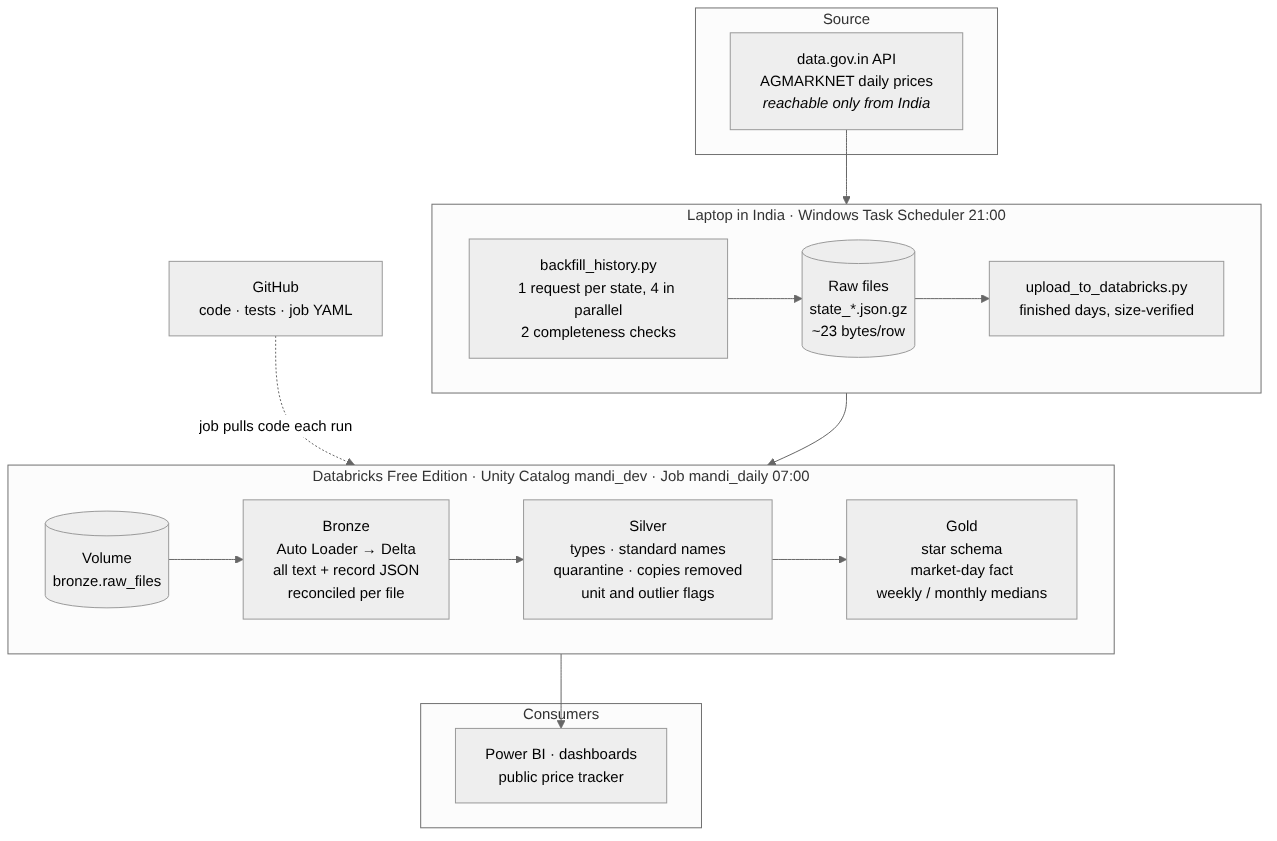
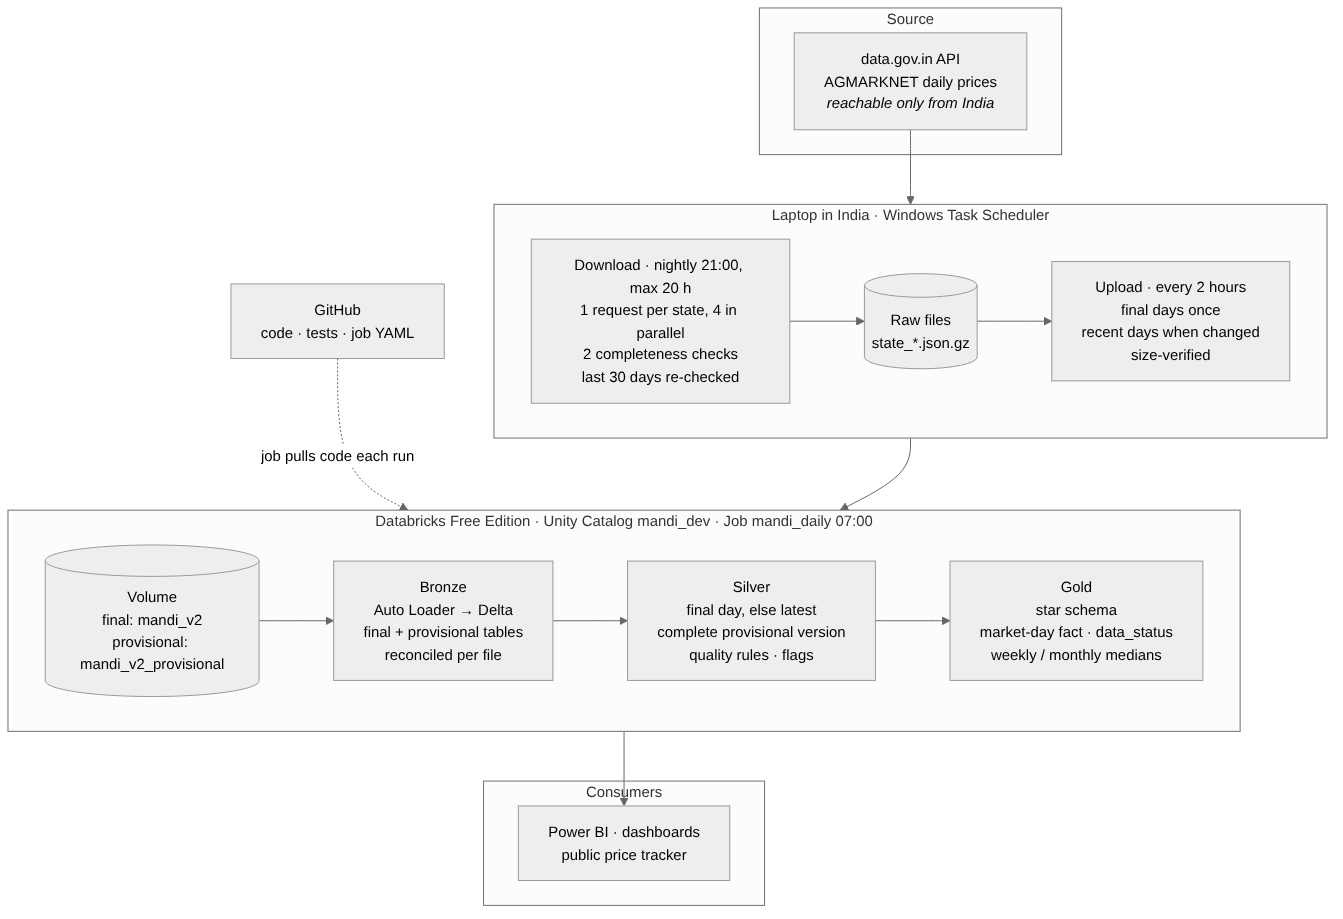
README: provisional data verified, October trend, updated architecture diagram

diff --git a/README.md b/README.md
@@ -71,7 +71,7 @@ found, silently loses rows when paged.
 | Silver | Types, quality rules, quarantine, de-duplication, flags | ✅ Verified |
 | Gold | Star schema, market-day fact, weekly and monthly prices | ✅ Verified |
 | Orchestration | Databricks job bronze → silver → gold, daily, alerts | ✅ Running daily at 07:00 IST |
-| Recent days | Shown as provisional until final, so gold reaches yesterday | ✅ Built · first run pending |
+| Recent days | Shown as provisional until final, so gold reaches yesterday | ✅ Verified |
 | Reporting | Power BI report, public price tracker | Planned |
 | CI | Tests on every push (GitHub Actions) | Planned |
 
@@ -197,16 +197,19 @@ spaces went from 0% in May to 5.8% in August, and copies after cleaning jumped a
 times in September. Trimming in silver kept each market's history continuous; without it,
 "APMC Mumbai" would have become a new market mid-year. [Details](docs/data_quality.md)
 
-**5. First trend: All India wholesale prices, late Aug to Sep 2026** (median of about
-1,000 markets each week)
+**5. First trend: All India wholesale prices, September to October 2026** (weekly median
+of about 800 to 1,100 markets; weeks from 25 September are provisional)
 
-| Crop | Week of 31 Aug | Week of 14 Sep | |
-| --- | --- | --- | --- |
-| Onion | Rs 4,400/quintal (Rs 44/kg) | Rs 4,800 (Rs 48/kg) | +9% in two weeks |
-| Tomato | Rs 2,400 | Rs 2,500 | +4% |
-| Potato | Rs 1,200 | Rs 1,200 | stable |
+| Crop | Week of 31 Aug | Peak | Week of 12 Oct | |
+| --- | --- | --- | --- | --- |
+| Tomato | Rs 2,400/quintal | Rs 3,000 (weeks of 28 Sep and 5 Oct) | Rs 2,600 | +25% in a month, then easing |
+| Onion | Rs 4,400 | Rs 4,800 (mid-September) | Rs 4,500 | Peaked, then down 6% |
+| Potato | Rs 1,200 | stable | Rs 1,140 | Flat |
 
-Wholesale, not retail. The full history will show whether this is the usual seasonal rise.
+The latest week also shows late data at work: about 805 markets had reported onion,
+against about 950 in a normal week, because reports are still arriving. That is why recent
+weeks are labelled provisional. Prices are wholesale, not retail; the full history will
+show whether these moves are the usual seasonal pattern.
 
 ## Reliability: how every number is proved
 
